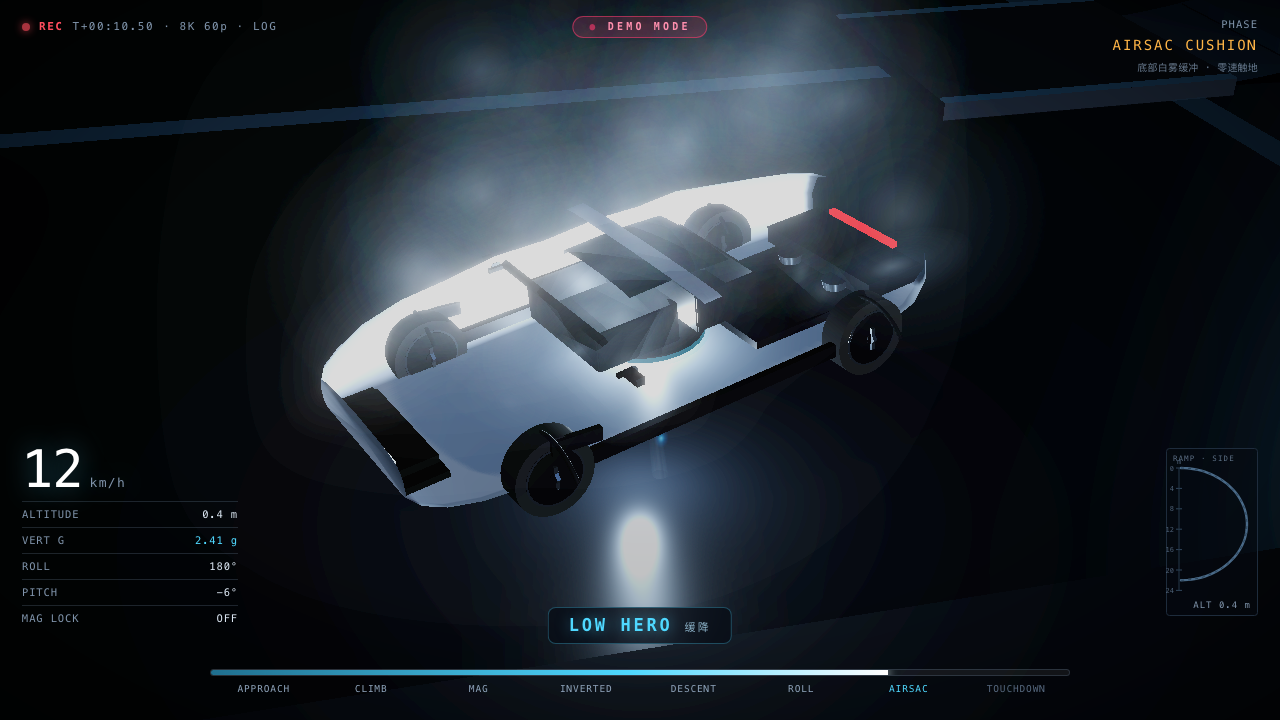
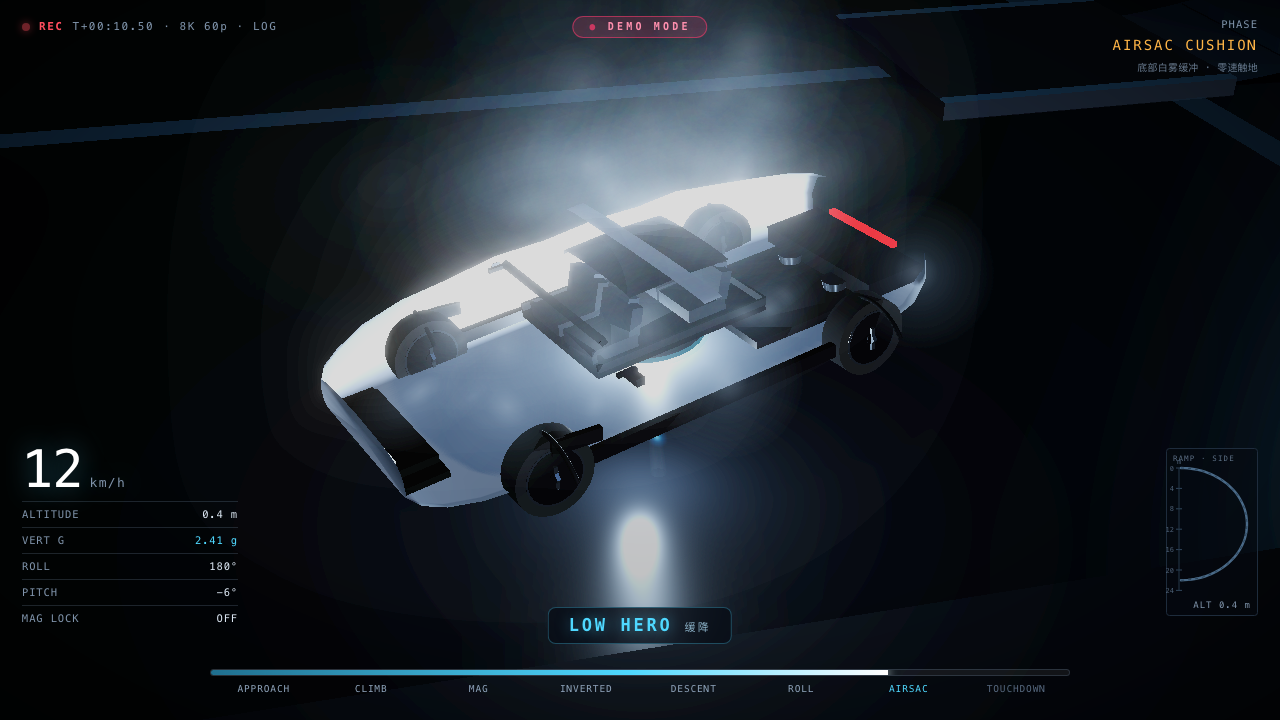
feat(car): 座舱装上四个座椅 —— 2+2 布局
## L 的需求
> 「都做到这一步了，四个座椅也都整上吧」

## 为什么加
B 柱把车顶分成前后两块风挡后座舱结构已成立, 但里面是空的 ——
透过天幕看下去只有两个黑盒子(座舱井壁), 读感是"箱子"不是"舱"。
四个座椅让座舱有内容: 从车顶看下去是 2+2 的座椅布局。

## 空间约束(为什么座椅这么矮)
| 位置 | y |
|---|---|
| 座舱地板(井底) | 0.585 |
| 井口 / 玻璃下沿 | 0.845 |
| 玻璃面(SINK+RISE) | ≈ 1.052 |

真实比例座椅(坐垫+靠背)约 0.62m, 净空只有 0.22m → 塞不下。
=> 座椅做矮: 坐垫 0.10 + 靠背 0.22, 只露靠背和头枕顶部。
这正是真实车从外面看座舱的样子。

## 布局
```
        前排 (x=-0.42)          后排 (x=+0.38)
     z=+0.235  z=-0.235      z=+0.215  z=-0.215
   ┌──────────┬──────────┐  ┌──────────┬──────────┐
   │  座椅    │  座椅    │  │  座椅    │  座椅    │
   └──────────┴──────────┘  └──────────┴──────────┘
        ← 前风挡 →   B柱   ← 后风挡 →   行李厢 →
```
- 前排靠背到 x=-0.23, 与 B 柱前沿 0.028 留 0.26 间隙
- 后排靠背到 x=+0.55, 与玻璃后沿 0.78 留 0.23 → 后方是行李厢
- 靠背后倾 15° —— "斜"是座椅刚性感的关键
- 头枕单独用更亮的材质 —— 座椅最强的识别特征

## 🔥 踩坑: 那个"黑盒子"不是井壁, 是地板
排查花了三轮:
1. 猜是井壁 → 拆矮(0.16→0.05) → 黑盒子还在
2. 猜是座椅 → 调高度倾角 → 黑盒子还在
3. **逐个隐藏法 + 节点清单定位** → 节点 5-13 是井壁, 102 是磁吸盘
   → 真凶是**地板板**: `floor.position = wallY - depth - 0.01`,
   depth 缩到 0.05 后地板跑到 y=0.785, **整个盖在座椅上面**(坐垫顶才 0.70)

> "看起来像 X" 时不要一直调 X。先用逐个隐藏法定位是哪个节点。
> 我连着改了两轮"井壁"和"座椅", 全是盲猜。

## 🔥 踩坑: 地板分两半 → 磁吸环穿帮
地板原本分两块给 B 柱"让位", 中间 x=0.10 的缺口**正好是磁吸盘位置**
→ 青色磁吸环从缝里露出来。
解法: 地板改成**一整块**; B 柱让位靠**玻璃断开**实现, 不需要地板也断。

## 地板宽度必须 > 磁吸环外径
磁吸环外径 = 0.44 + 0.036 = **0.476**
- wz=0.90 (半宽 0.45) → 露
- wz=1.02 (半宽 0.51) → 仍露一点
- **wz=1.10 (半宽 0.55) → 挡住 ✓**

## A/B: 玻璃透光度对座椅可见性的影响
| opacity | 效果 |
|---|---|
| **1.0** | **座椅剪影最清晰** ✓ |
| 0.90 | 略糊 |
| 0.82 | 反射开始盖住 |
| 0.72 | 看不清, 玻璃发灰 |
[…]

diff --git a/outputs/index.html b/outputs/index.html
@@ -1216,6 +1216,51 @@ function buildBPillar() {
 }
 
 /**
+ * 【四个座椅】—— Roadster 2 是 2+2 四座布局。
+ *
+ * 空间约束(为什么座椅这么矮):
+ *   座舱井口 y=0.845, 井底 y=0.625 —— 只有 0.22m 净空,
+ *   而真实比例座椅(坐垫+靠背)约 0.62m 高, 塞不下。
+ *   => 座椅【做矮】: 只做坐垫下半 + 靠背 + 头枕,
+ *      从车顶往下看只露出头枕和靠背顶部 —— 正是真实车从外面看座舱的样子。
+ *
+ * 布局:
+ *   前排 x=-0.34 (靠背在后侧 x≈-0.16), 与 B 柱(0.028~0.172) 留 0.19 间隙
+ *   后排 x=+0.38 (靠背在后侧 x≈+0.55), 与玻璃后沿 0.78 留 0.23 -> 后方是行李厢
+ */
+function buildSeat(x, z, isRear, mats) {
+  const { seatMat, seatBackMat, headrestMat } = mats;
+  const g = new THREE.Group();
+  const cushionW = 0.40, cushionL = isRear ? 0.32 : 0.38;
+  // 靠背高度受限于"不能顶穿天幕":
+  //   玻璃面 = 车顶yTop - GLASS_SINK + GLASS_RISE ≈ 1.110-0.088+0.030 = 1.052
+  //   靠背顶必须低于此值, 留 0.05 余量 -> 靠背顶 ≤ 1.00
+  const backH = 0.22, backT = 0.09;
+  const floorY = 0.585;                  // 座舱地板面
+  const seatTop = floorY + 0.10;        // 坐垫顶面 = 0.685
+
+  // 坐垫
+  const cushion = new THREE.Mesh(new THREE.BoxGeometry(cushionL, 0.10, cushionW), seatMat);
+  cushion.position.set(0, seatTop - 0.05, 0);
+  g.add(cushion);
+
+  // 靠背(后倾 15° —— 座椅的"斜"是刚性读感的关键)
+  const back = new THREE.Mesh(new THREE.BoxGeometry(backT, backH, cushionW), seatBackMat);
+  back.position.set(cushionL * 0.44 + 0.02, seatTop + backH * 0.5 - 0.015, 0);
+  back.rotation.z = -0.26;
+  g.add(back);
+
+  // 头枕 —— 座椅最强的识别特征, 略亮
+  const head = new THREE.Mesh(new THREE.BoxGeometry(0.09, 0.075, 0.22), headrestMat);
+  head.position.set(cushionL * 0.44 + 0.02 + 0.045, seatTop + backH - 0.028, 0);
+  head.rotation.z = -0.26;
+  g.add(head);
+
+  g.position.set(x, 0, z);
+  return g;
+}
+
+/**
  * 车顶玻璃的【实体裙边 / 密封框】—— 沿玻璃左右边缘向下的窄带。
  * 侧视时能看到玻璃有厚度, 而不是一张纸片; 同时与车身形成一道暗色凹槽。
  */
@@ -1375,12 +1420,31 @@ function buildCar() {
   // opacity 保持 1.0(完全不透明): 真实全景天幕从外面看就是黑的。
   // A/B 实测: tr=0 + op=1.0 车顶变成实心深色块, 完全看不穿。
   const glass = new THREE.MeshPhysicalMaterial({
+    // 深色镀膜天幕: transmission 必须为 0(物理透射会绕过 opacity)。
+    // opacity = 1.0 完全不透明(符合"最多25%透明"的要求)。
+    // A/B 实测: op=1.0 时座舱里四个座椅的剪影最清晰;
+    // 降到 0.82 以下玻璃反射反而盖住座椅, 读感更差。
     color: 0x0a1017, roughness: 0.08, metalness: 0.55,
     transmission: 0.0, thickness: 0.20, transparent: false, opacity: 1.0,
     ior: 1.5, envMapIntensity: 1.05,
   });
   const darkTrim = new THREE.MeshStandardMaterial({
     color: 0x0b0e13, roughness: 0.40, metalness: 0.75, envMapIntensity: 1.1,
+  });
+  // 座舱内衬: 比 darkTrim 更暗更哑光 —— 井壁是"背景", 不能抢玻璃和座椅的戏
+  const cabinTrim = new THREE.MeshStandardMaterial({
+    color: 0x070a0f, roughness: 0.92, metalness: 0.04, envMapIntensity: 0.35,
+  });
+  // 【座椅】皮革质感, 哑光深色 —— 透过天幕若隐若现, 不能太亮
+  const seatMat = new THREE.MeshStandardMaterial({
+    color: 0x1c232c, roughness: 0.88, metalness: 0.06, envMapIntensity: 0.45,
+  });
+  const seatBackMat = new THREE.MeshStandardMaterial({
+    color: 0x252e39, roughness: 0.82, metalness: 0.08, envMapIntensity: 0.55,
+  });
+  // 头枕(带一点对比, 是"座椅"最强的识别特征)
+  const headrestMat = new THREE.MeshStandardMaterial({
+    color: 0x3a4553, roughness: 0.78, metalness: 0.10, envMapIntensity: 0.70,
   });
   const chrome = new THREE.MeshStandardMaterial({
     color: 0x9aa6b4, roughness: 0.18, metalness: 0.96, envMapIntensity: 1.8,
@@ -1426,22 +1490,38 @@ function buildCar() {
     //   - 井壁: 沿开口四周向下的垂直壁
     // 有壁才有"深"的读感, 单纯一块板仍会看到底盘。
     // 两块风挡各配一块内衬, 中间给 B 柱让位(否则 B 柱会被内衬遮住)
-    const wz = 0.98, depth = 0.30, wallY = 0.845;
-    for (const [cx, cw] of [[-0.26, 0.66], [0.50, 0.52]]) {
-      const floor = new THREE.Mesh(new THREE.BoxGeometry(cw, 0.02, wz), darkTrim);
-      floor.position.set(cx, wallY - depth + 0.04, 0);
-      g.add(floor);
-    }
-    // 四面井壁(同样分两块, 中间留 B 柱位置)
-    for (const [cx, cw] of [[-0.26, 0.66], [0.50, 0.52]]) {
-      for (const [sx, sz, w, d] of [[0, wz/2, cw, 0.02], [0, -wz/2, cw, 0.02],
-                                    [cw/2, 0, 0.02, wz], [-cw/2, 0, 0.02, wz]]) {
-        const wall = new THREE.Mesh(new THREE.BoxGeometry(w, depth, d), darkTrim);
-        wall.position.set(cx + sx, wallY - depth/2, sz);
-        g.add(wall);
-      }
+    // 井壁压矮(0.30 -> 0.16)并内收(wz 0.98 -> 0.90):
+    // 太高太宽的井壁会变成两个"货箱", 抢掉玻璃和座椅的视觉重心。
+    // 井壁只留 0.05 高的贴地矮边: 立面墙会把座椅完全遮住,
+    // 而"挡住底盘"的职责由不透明地板板承担就够了。
+    // 井底(=座舱地板)在 y=0.585, 座椅站在它上面。
+    // 井壁只留 0.06 高的贴地矮边(舱沿), 立面墙会把座椅完全遮住。
+    // wz/2 = 0.51 必须 > 磁吸环外径 0.476, 否则青色环会从地板边缘露出来
+    const wz = 1.10, depth = 0.06, wallY = 0.845, floorY = 0.585;
+    // 【座舱地板】一整块, 不分两半。
+    //   分成两块会在中间 x=0.10 留缺口 —— 那正好是磁吸盘的位置,
+    //   磁吸环会从缝里露出来(青色圈穿帮)。
+    //   连续一块就彻底挡住底盘, 同时给四个座椅当立足面。
+    const floor = new THREE.Mesh(new THREE.BoxGeometry(1.44, 0.05, wz), darkTrim);
+    floor.position.set(0.08, floorY - 0.025, 0);
+    g.add(floor);
+    // 四面舱沿矮边(只贴地 0.06, 提供一点"围起来"的读感)
+    for (const [sx, sz, w, d] of [[0, wz/2, 1.44, 0.02], [0, -wz/2, 1.44, 0.02],
+                                  [0.72, 0, 0.02, wz], [-0.64, 0, 0.02, wz]]) {
+      const wall = new THREE.Mesh(new THREE.BoxGeometry(w, depth, d), cabinTrim);
+      wall.position.set(0.08 + sx, floorY + depth/2, sz);
+      g.add(wall);
     }
   }
+
+  // ---- 【四个座椅】2+2 布局, 透过天幕若隐若现 ----
+  for (const [sx, sz, isRear] of [
+    [-0.42,  0.235, false], [-0.42, -0.235, false],
+    [ 0.38,  0.215, true ], [ 0.38, -0.215, true ],
+  ]) {
+    g.add(buildSeat(sx, sz, isRear, { seatMat, seatBackMat, headrestMat }));
+  }
+
 
   // A 柱 / 车身与玻璃之间的密封条
   {

diff --git a/ref/FOUR-SEATS.md b/ref/FOUR-SEATS.md
@@ -1,0 +1,85 @@
+# 四个座椅 —— 2+2 布局
+
+## L 的需求
+> 「都做到这一步了，四个座椅也都整上吧」
+
+## 为什么加
+B 柱把车顶分成前后两块风挡后, 座舱结构已经成立, 但里面是**空的**。
+透过天幕看下去只有两个黑盒子(座舱井壁), 读感是"箱子"不是"舱"。
+四个座椅能让座舱**有内容** —— 从车顶看下去是 2+2 的座椅布局。
+
+## 空间约束(为什么座椅这么矮)
+| 位置 | y |
+|---|---|
+| 座舱地板(井底) | 0.585 |
+| 井口 / 玻璃下沿 | 0.845 |
+| 车顶 yTop | 1.110 |
+| 玻璃面(GLASS_SINK+RISE) | ≈ 1.052 |
+
+真实比例座椅(坐垫+靠背)约 0.62m 高, 净空只有 0.22m → **塞不下**。
+=> 座椅【做矮】: 坐垫 0.10 + 靠背 0.22, 只露靠背和头枕顶部。
+这正是真实车从外面看座舱的样子。
+
+## 布局
+```
+        前排 (x=-0.42)          后排 (x=+0.38)
+     z=+0.235  z=-0.235      z=+0.215  z=-0.215
+   ┌──────────┬──────────┐  ┌──────────┬──────────┐
+   │  座椅    │  座椅    │  │  座椅    │  座椅    │
+   └──────────┴──────────┘  └──────────┴──────────┘
+        ← 前风挡 →   B柱   ← 后风挡 →   行李厢 →
+```
+- 前排靠背到 x=-0.23, 与 B 柱前沿 0.028 留 0.26 间隙
+- 后排靠背到 x=+0.55, 与玻璃后沿 0.78 留 0.23 → 后方是行李厢
+- 靠背后倾 15°(0.26 rad) —— "斜"是座椅刚性感的关键
+- 头枕单独用更亮的材质 —— 座椅最强的识别特征
+
+## 🔥 踩坑:那个"黑盒子"不是井壁, 是地板
+排查花了三轮:
+1. 先猜是井壁 → 拆矮(0.16→0.05)→ 黑盒子还在
+2. 再猜是座椅 → 调座椅高度倾角 → 黑盒子还在
+3. **用逐个隐藏法 + 节点清单定位** → 节点 5-13 是井壁, 102 是磁吸盘
+   → 真凶是**地板板**: `floor.position = wallY - depth - 0.01`,
+   depth 缩到 0.05 后地板跑到 y=0.785, **整个盖在座椅上面**(坐垫顶才 0.70)
+
+> **"看起来像 X" 时不要一直调 X。** 先用逐个隐藏法定位到底是哪个节点。
+> 我连着改了两轮"井壁"和"座椅", 全是盲猜。
+
+## 🔥 踩坑:地板分两半 → 磁吸环穿帮
+地板原本分两块给 B 柱"让位", 中间 x=0.10 的缺口**正好是磁吸盘位置**
+→ 青色磁吸环从缝里露出来。
+解法: 地板改成**一整块**; B 柱的让位靠**玻璃断开**实现, 不需要地板也断。
+
+## 地板宽度必须 > 磁吸环外径
+磁吸环 Torus 外径 = 0.44 + 0.036 = **0.476**。
+地板半宽必须大于它, 否则环从地板边缘探出来:
+- wz=0.90 (半宽 0.45) → 露
+- wz=1.02 (半宽 0.51) → 仍露一点
+- **wz=1.10 (半宽 0.55) → 挡住 ✓**
+
+## A/B: 玻璃透光度对座椅可见性的影响
+| opacity | 效果 |
+|---|---|
+| **1.0** | **座椅剪影最清晰** ✓ |
+| 0.90 | 略糊 |
+| 0.82 | 反射开始盖住 |
+| 0.72 | 看不清, 且玻璃发灰 |
+
+**结论: 保持完全不透明**(也符合 L 早前"最多 25% 透明"的要求)。
+座舱靠**座椅顶出玻璃轮廓**来读, 不靠透视。
+
+## 改动清单
+1. `buildSeat(x, z, isRear, mats)` —— 坐垫 + 靠背 + 头枕
+2. 材质 `seatMat` / `seatBackMat` / `headrestMat` / `cabinTrim`
+3. 座舱地板**一整块** 1.44 × 0.05 × 1.10, 位置 y=0.585-0.025
+4. 井壁改成 0.06 高的贴地舱沿矮边
+5. 玻璃回到 `opacity: 1.0, transparent: false`
+6. 前排座椅 x -0.34 → -0.42
+
+## ⚠ 踩坑:材质作用域
+`buildSeat` 是**模块级函数**, 拿不到 `buildCar()` 里的局部 const 材质
+→ 页面初始化直接抛错(`waitForFunction` 超时 30s, 报出来只说"超时", 看不到根因)。
+修法: 材质作为参数传入 `{ seatMat, seatBackMat, headrestMat }`。
+
+## 验证
+npm test 49+19+23 全过 | 喷口 43/43 | demo 7 机位零错误 | 几何审计零错误
